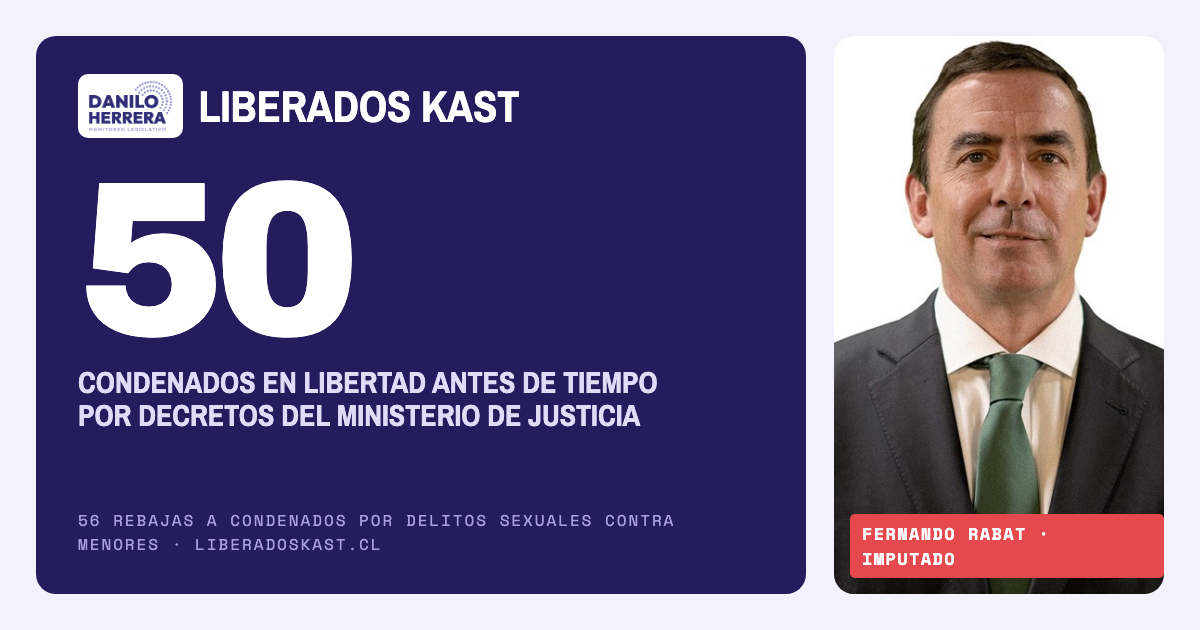
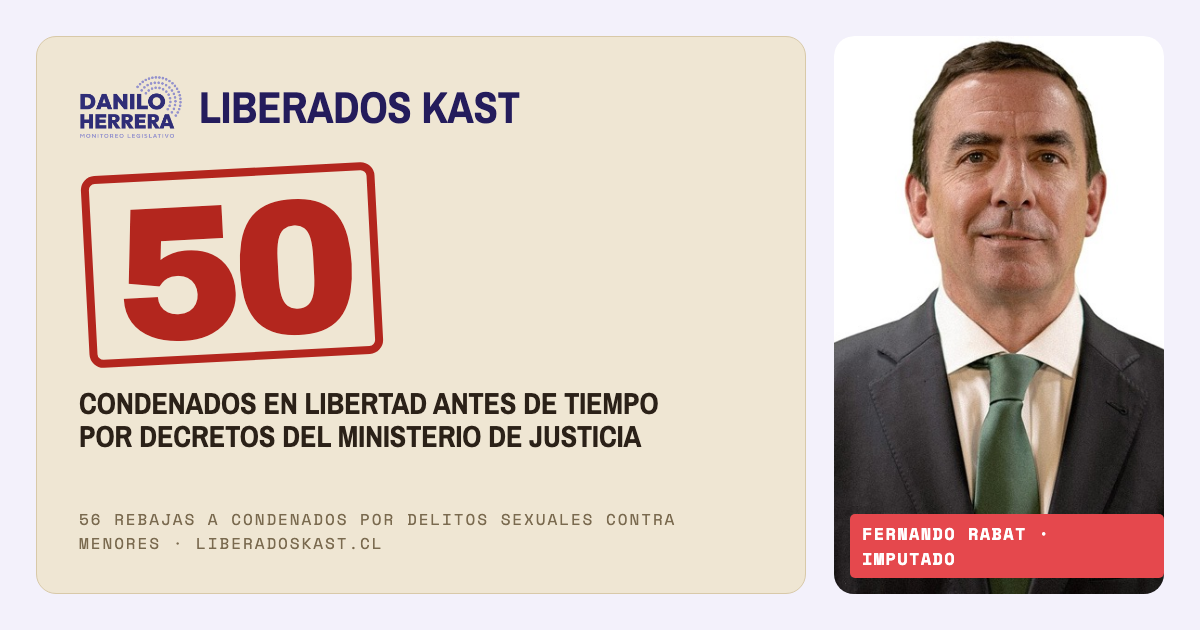
Contador estilo expediente, colores y orden por tipo de delito
- Bloque del contador en papel de expediente con la cifra como timbre
- Colores propios por tipo de delito y orden fijo de las fichas
- Ficha de casos sin identificar junto a los delitos sexuales
- Imagen para redes actualizada

diff --git a/index.html b/index.html
@@ -27,7 +27,7 @@
   :root{
     --indigo:#241c5c; --indigo-2:#2f2570; --lav:#e8e5f7; --lav-2:#d6d2ee;
     --mid:#6b5fb5; --ink:#171132; --paper:#f3f1fb; --alert:#e5484d; --line:#c9c3e6;
-    --alert-bg:#fde4e4; --alert-ink:#a3191e; --warn-bg:#fbefd6; --warn-ink:#83520a;
+    --alert-bg:#fde4e4; --alert-ink:#a3191e; --warn-bg:#fbefd6; --warn-ink:#83520a; --lh:#1f7a75;
   }
   *{box-sizing:border-box;margin:0;padding:0}
   html{scroll-behavior:smooth}
@@ -58,14 +58,13 @@
 
   /* ===== TRACKER ===== */
   .hero{padding:26px 0 14px}
-  .tracker{background:var(--indigo);border-radius:16px;color:#fff;padding:34px 30px 40px;position:relative;overflow:hidden}
-  .tracker::before{content:"";position:absolute;inset:0;background:radial-gradient(circle at 84% 8%, rgba(255,255,255,.07), transparent 46%);pointer-events:none}
-  .tracker .meta{font-family:'Space Mono',monospace;font-size:11.5px;letter-spacing:.14em;text-transform:uppercase;color:#a99fe0;position:relative;z-index:1}
-  .tracker .big{font-weight:900;font-size:clamp(88px,20vw,180px);line-height:.8;letter-spacing:-.045em;position:relative;z-index:1;margin-top:10px}
-  .tracker .cap{font-family:'Archivo Narrow',system-ui,sans-serif;font-weight:700;text-transform:uppercase;letter-spacing:.04em;font-size:clamp(16px,3.2vw,23px);margin-top:8px;color:#e0dbf7;position:relative;z-index:1}
-  .tracker .strip{display:flex;gap:34px;flex-wrap:wrap;margin-top:26px;padding-top:22px;border-top:1px solid #3a2f80;position:relative;z-index:1}
+  .tracker{background:#efe6d3;border:1px solid #d8c9a8;border-radius:16px;color:#2b2118;padding:34px 30px 40px;position:relative;overflow:hidden}
+  .tracker .meta{font-family:'Space Mono',monospace;font-size:11.5px;letter-spacing:.14em;text-transform:uppercase;color:#7a6a4f}
+  .tracker .big{display:inline-block;font-weight:900;font-size:clamp(100px,18vw,160px);line-height:.8;letter-spacing:-.045em;color:#b3261e;border:clamp(4px,.8vw,7px) solid #b3261e;border-radius:12px;padding:.1em .12em .03em;transform:rotate(-3deg);margin:22px 0 10px 4px}
+  .tracker .cap{font-family:'Archivo Narrow',system-ui,sans-serif;font-weight:700;text-transform:uppercase;letter-spacing:.04em;font-size:clamp(16px,3.2vw,23px);margin-top:8px;color:#2b2118}
+  .tracker .strip{display:flex;gap:34px;flex-wrap:wrap;margin-top:26px;padding-top:22px;border-top:1px dashed #cdbb94}
   .tracker .strip .sn{font-weight:800;font-size:32px;line-height:1}
-  .tracker .strip .sl{font-family:'Space Mono',monospace;font-size:11px;letter-spacing:.08em;text-transform:uppercase;color:#a99fe0;margin-top:5px;max-width:20ch}
+  .tracker .strip .sl{font-family:'Space Mono',monospace;font-size:11px;letter-spacing:.08em;text-transform:uppercase;color:#7a6a4f;margin-top:5px;max-width:20ch}
   .method{font-size:13px;color:#4a4370;margin-top:16px}
 
   /* ===== RESPONSABLES ===== */
@@ -122,6 +121,12 @@
   .case .bar{height:5px;background:var(--lav);border-radius:3px;overflow:hidden}
   .case .bar i{display:block;height:100%;background:var(--indigo)}
   .case.c-sexual .bar i{background:var(--alert)}
+  .case.c-ddhh{border-left-color:var(--lh)}
+  .case.c-ddhh .bar i{background:var(--lh)}
+  .case.c-homicidio{border-left-color:#3a2e26}.case.c-homicidio .bar i{background:#3a2e26}
+  .case.c-femicidio{border-left-color:#a3367f}.case.c-femicidio .bar i{background:#a3367f}
+  .case.c-drogas{border-left-color:#c08a1e}.case.c-drogas .bar i{background:#c08a1e}
+  .case.c-robo{border-left-color:#2f6690}.case.c-robo .bar i{background:#2f6690}
   .case .gnote{font-size:12.5px;color:var(--warn-ink);background:var(--warn-bg);border-radius:6px;padding:6px 8px}
   .case .foot{display:flex;justify-content:space-between;align-items:center;gap:8px;margin-top:auto;padding-top:8px;border-top:1px solid #ece9f7;font-size:12px}
   .case .foot a{font-family:'Space Mono',monospace;color:var(--mid);text-decoration:none;border-bottom:1px solid var(--lav-2);font-weight:700}
@@ -190,7 +195,7 @@
     <div class="tracker">
       <div class="meta">Actualizado al <span class="upd-long"></span></div>
       <div class="big" id="bigN">—</div>
-      <div class="cap">condenados en libertad antes de tiempo,<br class="mbr"> confirmados por la prensa</div>
+      <div class="cap">condenados en libertad antes de tiempo, confirmados por la prensa</div>
       <div class="strip">
         <div><div class="sn">56</div><div class="sl">rebajas a condenados por delitos sexuales contra menores</div></div>
         <div><div class="sn" id="sMeses">—</div><div class="sl">meses de cárcel rebajados en esos casos</div></div>
@@ -413,6 +418,7 @@ const T = [
 
 // ===== RENDER =====
 const TIPOS = {sexual:"Delito sexual contra menores", drogas:"Narcotráfico", homicidio:"Homicidio", femicidio:"Femicidio frustrado", robo:"Robo y armas", ddhh:"Violaciones a los DD.HH."};
+const ORDEN = ["sexual","ddhh","homicidio","femicidio","drogas","robo"]; // orden de las fichas
 const EST = {libre:"En libertad", prision:"Sigue preso", sinconf:"Sin confirmar"};
 const $ = id => document.getElementById(id);
 const fmt = n => n.toLocaleString("es-CL");
@@ -467,7 +473,8 @@ function render(){
   const list = D.filter(d => (!t||d.tipo===t) && (!f||(f==="-"?!d.firma:d.firma===f)) && (!e||d.est===e) && (!q||norm(d.q+" "+d.delito).includes(q)));
   const anyFilter = q||t||f||e;
   const showGhost = !q && (!t||t==="sexual") && !f && !e;
-  $("cases").innerHTML = list.map(card).join("") + (showGhost?ghost():"") || `<div class="empty">No hay casos con esos filtros.</div>`;
+  const grp = t => list.filter(d=>d.tipo===t).map(card).join("");
+  $("cases").innerHTML = grp("sexual") + (showGhost?ghost():"") + ORDEN.slice(1).map(grp).join("") || `<div class="empty">No hay casos con esos filtros.</div>`;
   $("countRow").textContent = `${list.length} ${list.length===1?"caso":"casos"}` + (showGhost?` · más ${SIN_IDENTIFICAR} sin identificar`:"");
   $("btnClear").hidden = !anyFilter;
 }
